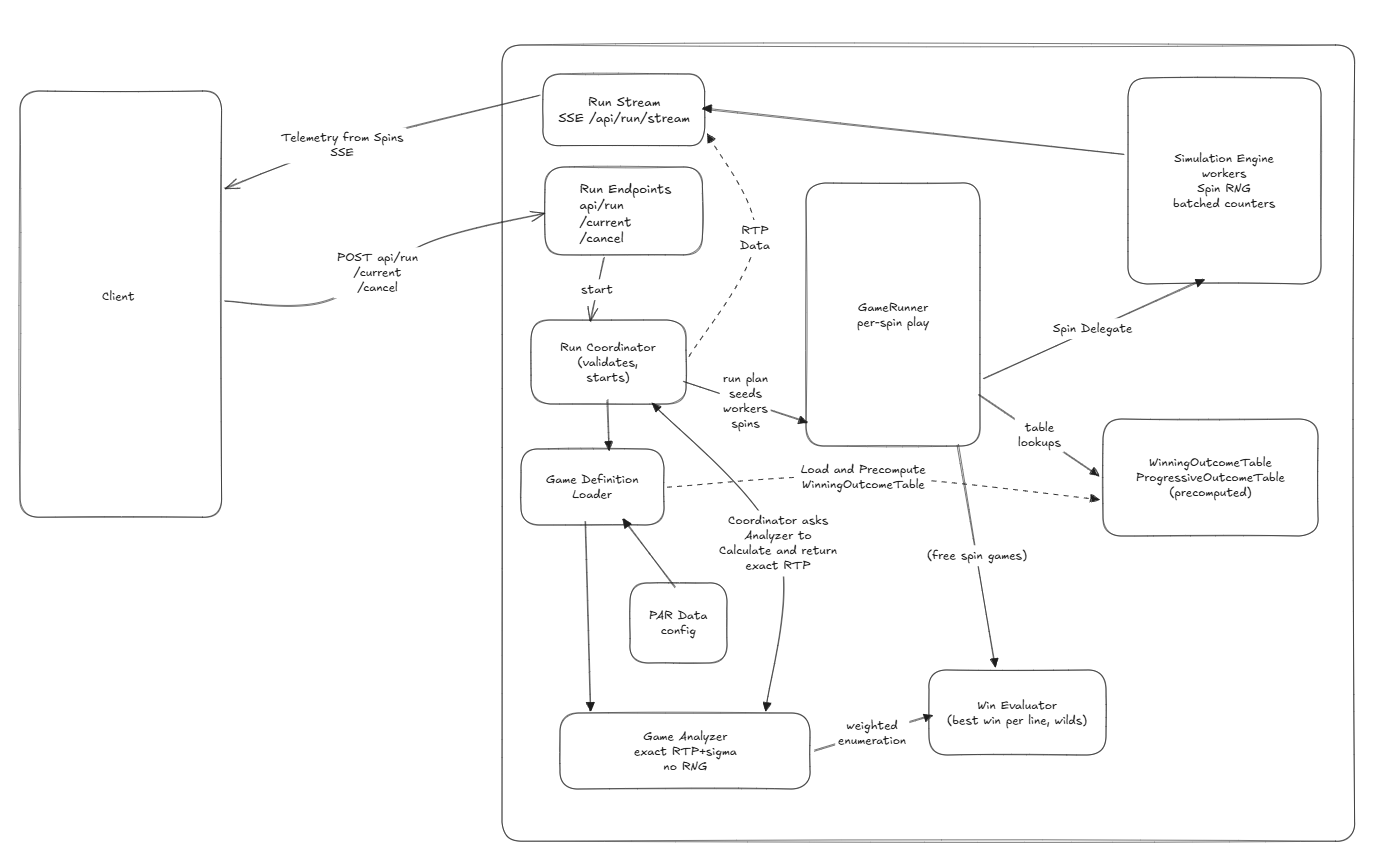
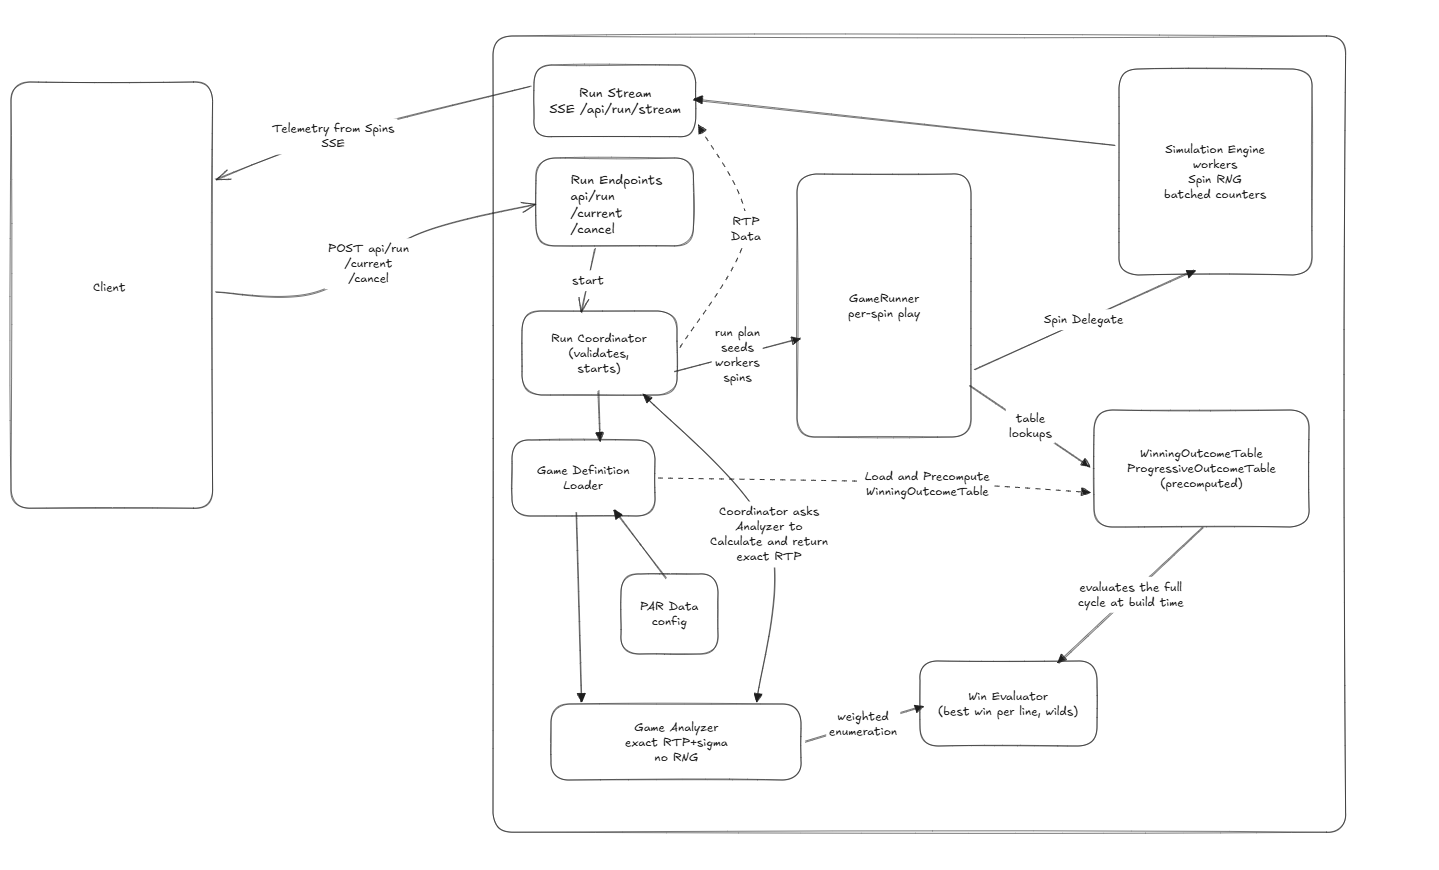
docs: final diagram revision (Win Evaluator wired to table build, free-spin edge removed)

diff --git a/docs/simulation-flow.md b/docs/simulation-flow.md
@@ -147,12 +147,9 @@ Fan-out of run events to every open browser tab.
 8. The client's `EventSource` redraws the charts per sample until the run
    completes or is cancelled (node 1).
 
-## One diagram edge that is aspirational here
+## Free spins in this repository
 
-The chart's "(free spin games) → Win Evaluator" edge describes a
-direct-evaluation spin path for games whose free-spin sessions play a second
-reel set the tables cannot cover. That path exists in a downstream
-experiment, and this repository's `GameRunner` plays every loaded game
-through the precomputed tables plus the inline pick bonus. The solver/preset
-path models free spins analytically instead, as a scheduled RTP term
-(`CSharp/src/MMP.SlotGame.Core/Features/FeatureSchedule.cs`).
+Free spins appear only on the solver/preset path, modeled analytically as a
+scheduled RTP term (`CSharp/src/MMP.SlotGame.Core/Features/FeatureSchedule.cs`).
+Loaded games play every spin through the precomputed tables plus the inline
+pick bonus; there is no per-spin free-game session here.
